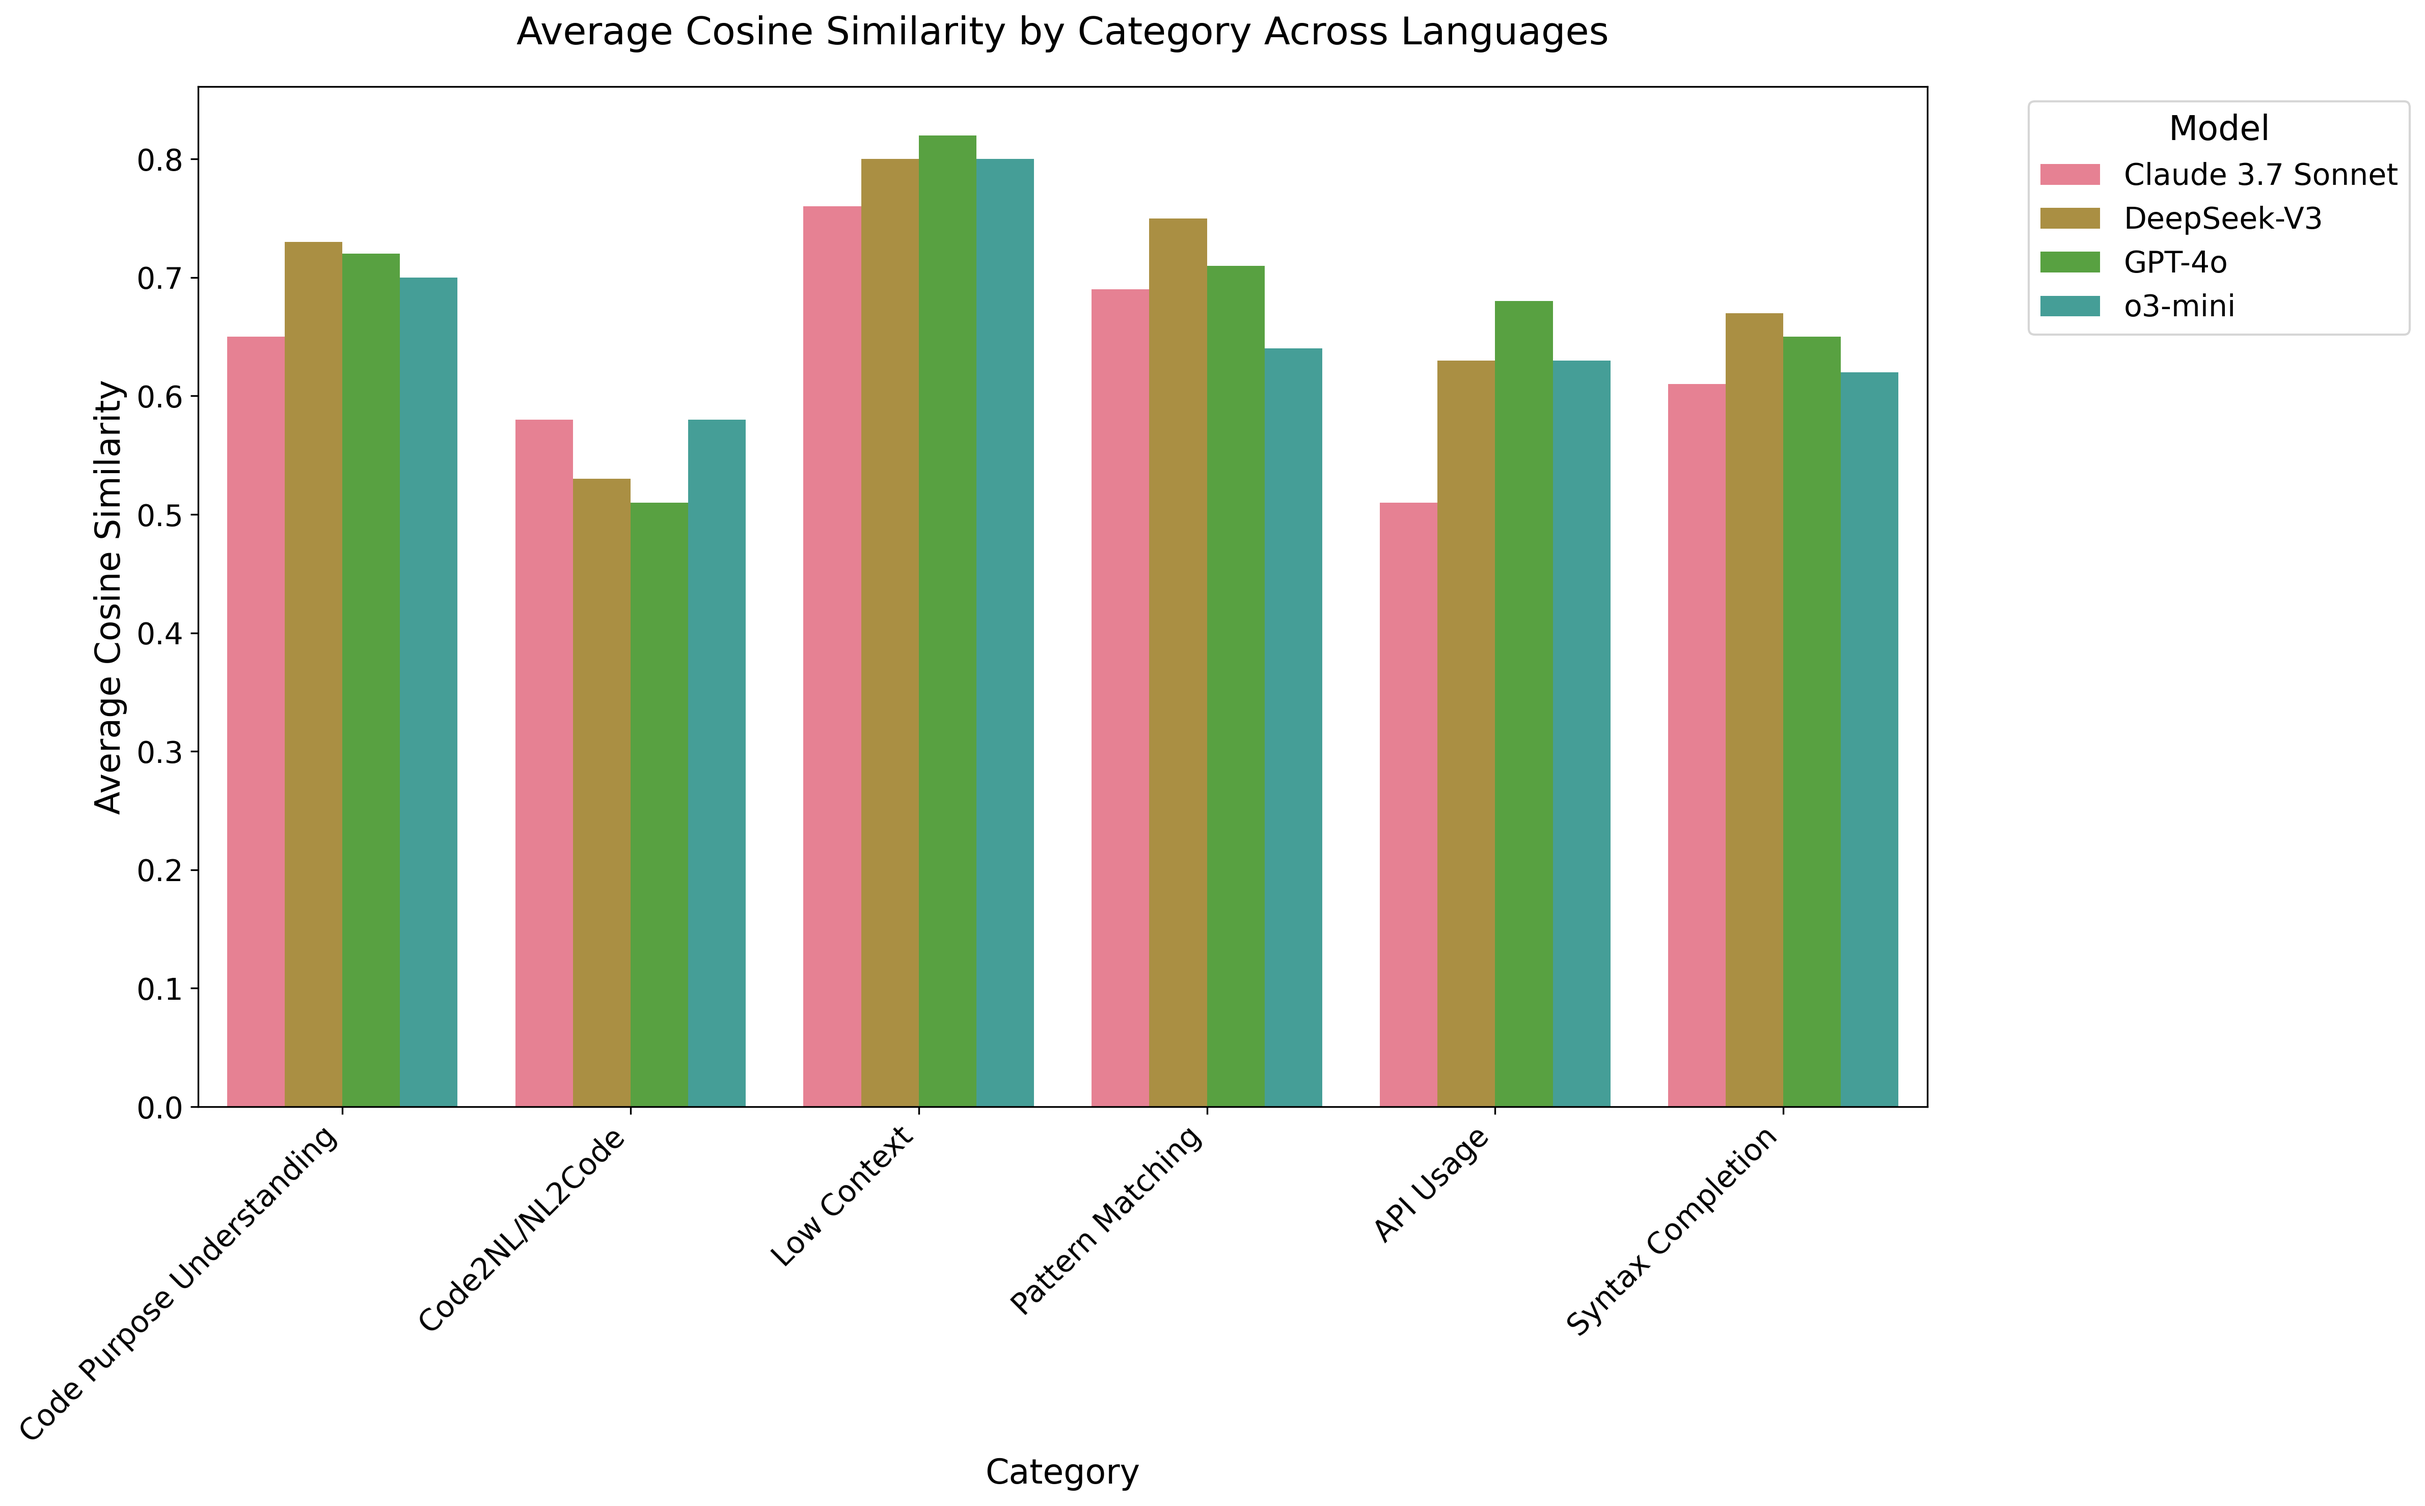
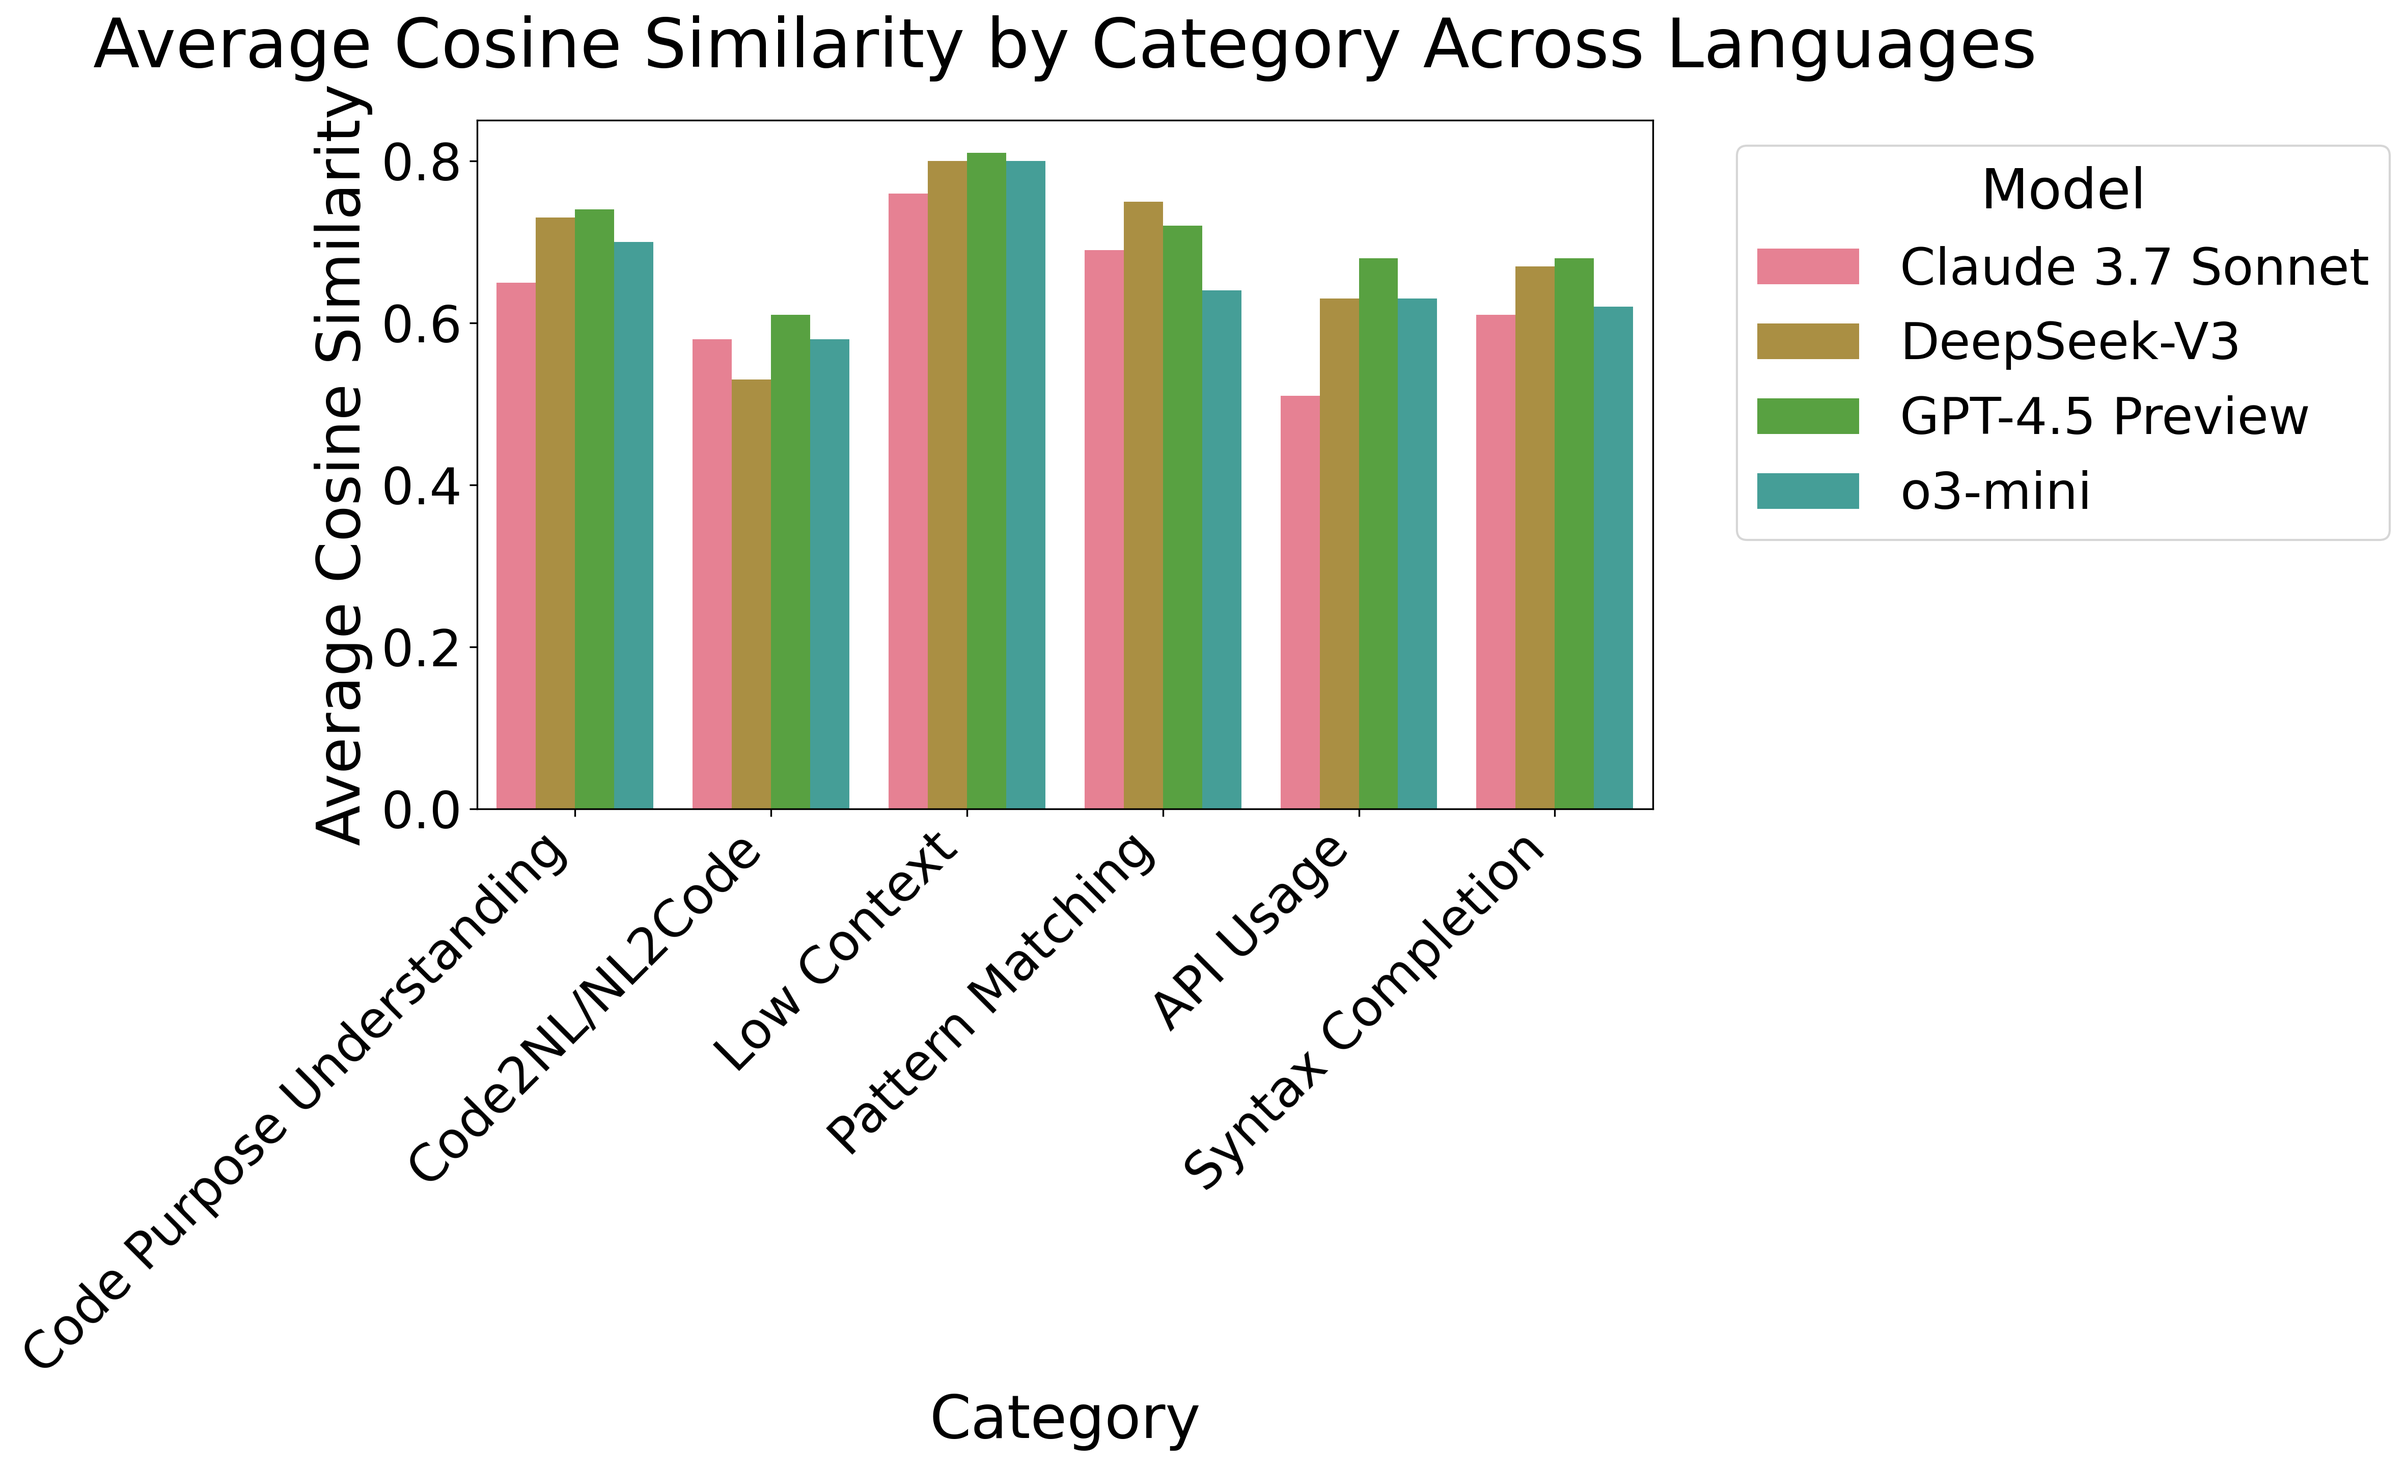
add compoletion eval stuff

diff --git a/completion_evaluations/evaluate_completions.py b/completion_evaluations/evaluate_completions.py
@@ -335,10 +335,10 @@ def create_specific_category_comparisons(formatted_results, plots_dir="plots"):
     os.makedirs(plots_dir, exist_ok=True)
     
     # Specific models to compare with clean display names mapping
-    selected_models = ['claude-3-7-sonnet', 'gpt-4o', 'o3-mini', 'DeepSeek-V3-0324']
+    selected_models = ['claude-3-7-sonnet', 'gpt-4.5-preview', 'o3-mini', 'DeepSeek-V3-0324']
     model_display_names = {
         'claude-3-7-sonnet': 'Claude 3.7 Sonnet',
-        'gpt-4o': 'GPT-4o',
+        'gpt-4.5-preview': 'GPT-4.5 Preview',
         'o3-mini': 'o3-mini',
         'DeepSeek-V3-0324': 'DeepSeek-V3'
     }
@@ -393,14 +393,14 @@ def create_specific_category_comparisons(formatted_results, plots_dir="plots"):
     for metric_key, metric_label in metrics:
         plt.figure(figsize=(16, 10))
         
-        # Set font sizes
+        # Set font sizes - increased for better readability
         plt.rcParams.update({
-            'font.size': 12,
-            'axes.titlesize': 16,
-            'axes.labelsize': 14,
-            'xtick.labelsize': 12,
-            'ytick.labelsize': 12,
-            'legend.fontsize': 12
+            'font.size': 20,
+            'axes.titlesize': 28,
+            'axes.labelsize': 26,
+            'xtick.labelsize': 24,
+            'ytick.labelsize': 24,
+            'legend.fontsize': 24
         })
         
         # Convert metric key to DataFrame column name
@@ -416,17 +416,21 @@ def create_specific_category_comparisons(formatted_results, plots_dir="plots"):
         ax = sns.barplot(data=df_comparison, x='Category', y=y_col, hue='Model', order=category_order)
         
         # Set the title and labels with increased font sizes
-        ax.set_title(f'{metric_label} by Category Across Languages', fontsize=18, pad=20)
-        ax.set_xlabel('Category', fontsize=16)
-        ax.set_ylabel(metric_label, fontsize=16)
+        ax.set_title(f'{metric_label} by Category Across Languages', fontsize=32, pad=25)
+        ax.set_xlabel('Category', fontsize=28)
+        ax.set_ylabel(metric_label, fontsize=28)
         
         # Rotate x-axis labels for better readability
-        plt.xticks(rotation=45, ha='right', fontsize=14)
-        plt.yticks(fontsize=14)
+        plt.xticks(rotation=45, ha='right', fontsize=24)
+        plt.yticks(fontsize=24)
         
-        # Add legend with increased font size
-        legend = plt.legend(title='Model', bbox_to_anchor=(1.05, 1), loc='upper left', fontsize=14)
-        legend.get_title().set_fontsize(16)
+        # Only add legend for the cosine similarity plot
+        if metric_key == 'avg_cosine':
+            legend = plt.legend(title='Model', bbox_to_anchor=(1.05, 1), loc='upper left', fontsize=24)
+            legend.get_title().set_fontsize(26)
+        else:
+            # Remove legend for the line0_exact_match_rate plot
+            ax.get_legend().remove()
         
         # Format y-axis for percentage metrics
         if 'Rate' in metric_label:
@@ -438,6 +442,47 @@ def create_specific_category_comparisons(formatted_results, plots_dir="plots"):
         safe_metric = metric_key.replace('_', '-')
         plt.savefig(f'{plots_dir}/specific_category_comparison_{safe_metric}.png', bbox_inches='tight', dpi=300)
         plt.close()
+        
+        # Create an additional plot for line0_exact_match_rate WITH legend
+        if metric_key == 'line0_exact_match_rate':
+            # Use a wider figure to accommodate the legend
+            plt.figure(figsize=(20, 10))
+            
+            # Apply smaller font settings for this specific plot
+            plt.rcParams.update({
+                'font.size': 16,
+                'axes.titlesize': 22,
+                'axes.labelsize': 20,
+                'xtick.labelsize': 18,
+                'ytick.labelsize': 18,
+                'legend.fontsize': 18
+            })
+            
+            # Create the plot again
+            ax = sns.barplot(data=df_comparison, x='Category', y=y_col, hue='Model', order=category_order)
+            
+            # Set the title and labels with more conservative font sizes
+            ax.set_title(f'{metric_label} by Category Across Languages', fontsize=24, pad=30)
+            ax.set_xlabel('Category', fontsize=20)
+            ax.set_ylabel(metric_label, fontsize=20, labelpad=15)
+            
+            # Rotate x-axis labels for better readability
+            plt.xticks(rotation=45, ha='right', fontsize=18)
+            plt.yticks(fontsize=18)
+            
+            # Add legend for this version
+            legend = plt.legend(title='Model', bbox_to_anchor=(1.05, 1), loc='upper left', fontsize=18)
+            legend.get_title().set_fontsize(20)
+            
+            # Format y-axis for percentage metrics
+            plt.gca().yaxis.set_major_formatter(plt.FuncFormatter(lambda x, _: f'{x:.1f}%'))
+            
+            # Adjust the subplot parameters directly for more control
+            plt.subplots_adjust(top=0.85, left=0.15)
+            
+            # Save with a different filename to indicate it has a legend
+            plt.savefig(f'{plots_dir}/specific_category_comparison_{safe_metric}_with_legend.png', bbox_inches='tight', dpi=300)
+            plt.close()
     
     print("Created specific category comparison plots across languages")
 
